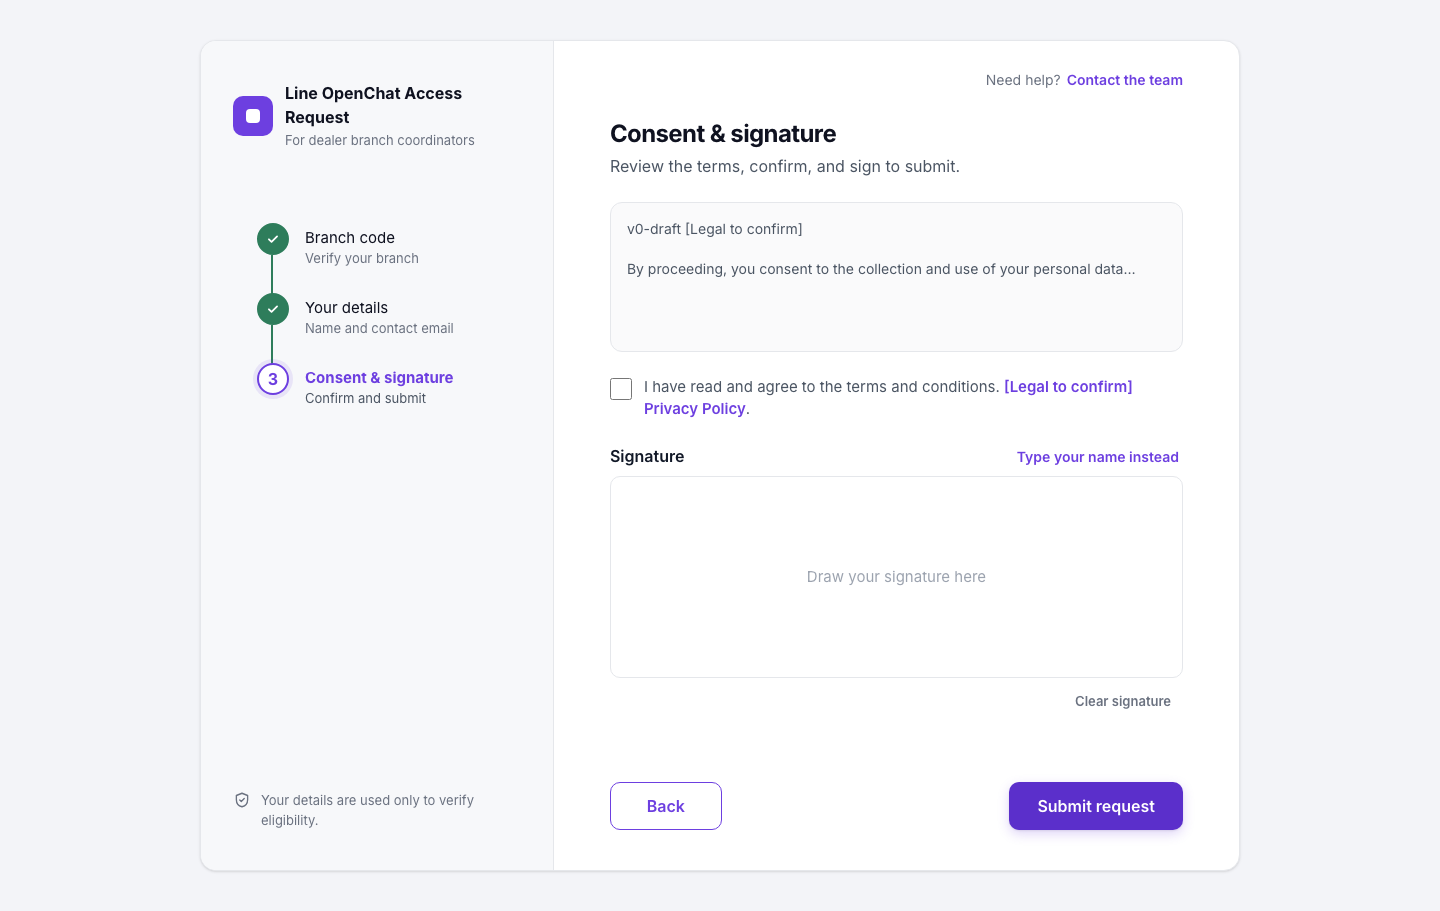
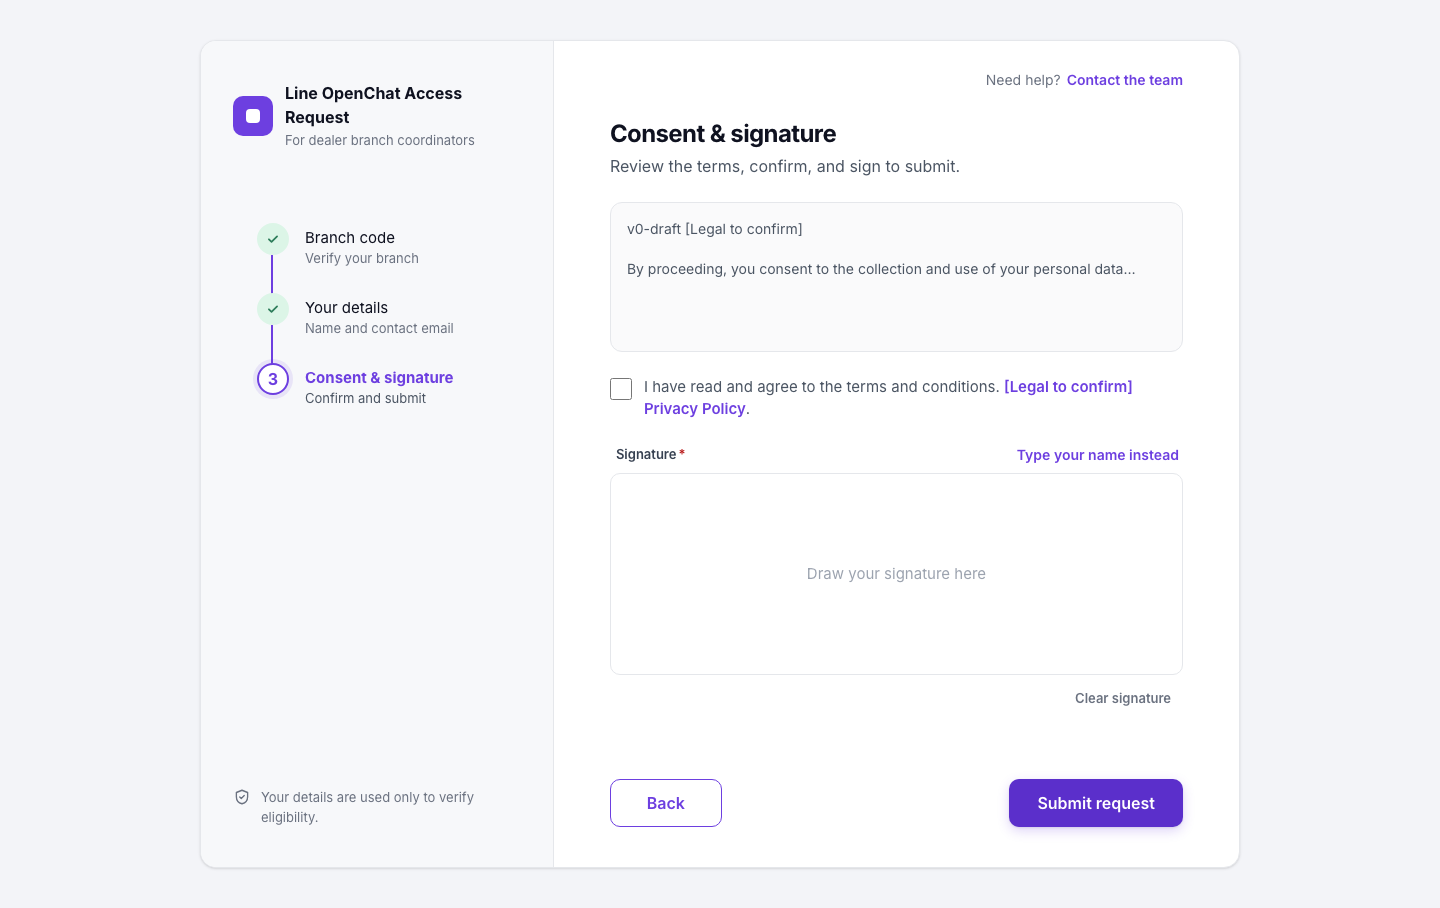
feat: align form UI with design (stepper, step 2/4 layouts, lookup cards, required markers)

diff --git a/src/app/page.tsx b/src/app/page.tsx
@@ -109,7 +109,7 @@ export function RequestForm({ initialState = {} }: { initialState?: FormInitialS
   // Actions
   const handleStep1 = form1.handleSubmit(async (data) => {
     if (data.honeypot) {
-      setReqId("REQ-0001");
+      setReqId("#REQ-0001");
       setStep(4);
       return;
     }
@@ -158,7 +158,7 @@ export function RequestForm({ initialState = {} }: { initialState?: FormInitialS
   });
 
   const handleStep3 = form3.handleSubmit(() => {
-    setReqId("REQ-0042");
+    setReqId("#REQ-0042");
     setStep(4);
   });
 
@@ -207,6 +207,16 @@ export function RequestForm({ initialState = {} }: { initialState?: FormInitialS
                   <p className="m-0 text-[16px] leading-[24px] text-[#6B7280]">Used to verify your eligibility to join the Line OpenChat group.</p>
                 </div>
 
+                {networkError && (
+                  <div role="alert" className="flex gap-3 items-start flex-wrap p-[14px_16px] rounded-xl bg-[#FEE2E2]">
+                    <svg aria-hidden="true" width="20" height="20" viewBox="0 0 24 24" fill="none" stroke="#B91C1C" strokeWidth="2" strokeLinecap="round" strokeLinejoin="round" className="flex-none mt-[2px]"><path d="M2 8.5a15 15 0 0 1 20 0M5.5 12a10 10 0 0 1 13 0M9 15.5a5 5 0 0 1 6 0M12 19h.01"></path><path d="M3 3l18 18"></path></svg>
+                    <div className="flex-1 min-w-[180px] flex flex-col gap-[2px] text-[15px] leading-[22px]">
+                      <span className="font-bold text-[#0F1220]">Connection problem</span>
+                      <span className="text-[#1F2937]">{networkError}</span>
+                    </div>
+                  </div>
+                )}
+
                 <div className="relative flex gap-3 p-4 rounded-xl bg-[#EDE9FE]">
                   <svg aria-hidden="true" width="20" height="20" viewBox="0 0 24 24" fill="none" stroke="#6D3FE0" strokeWidth="1.8" strokeLinecap="round" strokeLinejoin="round" className="flex-none mt-[2px]">
                     <circle cx="12" cy="12" r="9.5"></circle><path d="M12 11v5.5M12 7.5h.01"></path>
@@ -221,22 +231,41 @@ export function RequestForm({ initialState = {} }: { initialState?: FormInitialS
                 
                 <FloatField 
                   label="Branch code" 
+                  required={true}
                   placeholder="e.g. 1234" 
                   icon="search"
                   mono
                   locked={lookupState === "found"}
+                  success={lookupState === "found"}
                   error={form1.formState.errors.branchCode?.message}
                   {...form1.register("branchCode")}
                 />
                 
-                <div aria-live="polite">
-                  {lookupState === "loading" && <div className="text-[#4B5563]">Verifying…</div>}
-                  {lookupState === "notfound" && <div className="text-[#B91C1C]">Error: We couldn&apos;t find a branch with that code.</div>}
-                  {networkError && <div className="text-[#B91C1C]" role="alert">{networkError}</div>}
+                <div aria-live="polite" aria-atomic="true" className="flex flex-col">
+                  {lookupState === "notfound" && (
+                    <div className="relative flex gap-3 p-[14px_16px] rounded-xl bg-[#FEE2E2]">
+                      <svg aria-hidden="true" width="20" height="20" viewBox="0 0 24 24" fill="none" stroke="#B91C1C" strokeWidth="2" strokeLinecap="round" strokeLinejoin="round" className="flex-none mt-[2px]"><circle cx="12" cy="12" r="9.5"></circle><path d="M12 7.5v5.5M12 16.5h.01"></path></svg>
+                      <div className="flex flex-col gap-[2px] min-w-0 text-[15px] leading-[22px] text-[#111827]">
+                        <div className="font-bold">Branch not found</div>
+                        <div>Sure the code is right? <a href="#" className="text-[#6D3FE0] font-semibold no-underline">Contact the team</a> to add your branch.</div>
+                      </div>
+                    </div>
+                  )}
                   {lookupState === "found" && branchData?.status === "found" && (
-                    <div className="bg-[#FAFAFB] border border-[#E5E7EB] p-4 rounded-[12px] flex flex-col gap-1">
-                      <span className="text-[13px] text-[#4B5563]">Branch found</span>
-                      <span className="text-[15px] font-semibold text-[#0F1220]">{branchData.dealerName} / {branchData.branchName}</span>
+                    <div role="status" className="relative flex gap-3 p-[14px_16px] rounded-xl bg-[#DCF5E7]">
+                      <svg aria-hidden="true" width="20" height="20" viewBox="0 0 24 24" fill="none" stroke="#2E7D5B" strokeWidth="2" strokeLinecap="round" strokeLinejoin="round" className="flex-none mt-[2px]"><circle cx="12" cy="12" r="9.5"></circle><path d="m8 12.5 2.8 2.8L16 9.5"></path></svg>
+                      <div className="flex flex-col gap-1 min-w-0">
+                        <div className="text-[14px] font-bold text-[#1F5C42]">Branch found</div>
+                        <div className="flex flex-wrap items-center gap-2 text-[16px] leading-[24px] font-semibold text-[#0F1220]">
+                          <span>{branchData.dealerName}</span>
+                          <span aria-hidden="true" className="text-[#6B7280] font-normal">/</span>
+                          <span>{branchData.branchName}</span>
+                        </div>
+                        <div className="flex items-center gap-[6px] text-[13px] leading-[18px] text-[#1F5C42]">
+                          <svg aria-hidden="true" width="13" height="13" viewBox="0 0 24 24" fill="none" stroke="currentColor" strokeWidth="2" strokeLinecap="round" strokeLinejoin="round"><rect x="4" y="11" width="16" height="10" rx="2"></rect><path d="M8 11V7a4 4 0 0 1 8 0v4"></path></svg>
+                          <span>Names are partly hidden for privacy. Confirm this is your branch.</span>
+                        </div>
+                      </div>
                     </div>
                   )}
                 </div>
@@ -294,12 +323,13 @@ export function RequestForm({ initialState = {} }: { initialState?: FormInitialS
                 <div className="flex flex-col gap-[20px]">
                   <h2 className="m-0 text-[14px] font-semibold text-[#4B5563]">Requester</h2>
                   <div className="grid grid-cols-1 md:grid-cols-2 gap-[20px_16px]">
-                    <FloatField label="First name" icon="user" error={form2.formState.errors.firstName?.message} {...form2.register("firstName")} />
-                    <FloatField label="Last name" error={form2.formState.errors.lastName?.message} {...form2.register("lastName")} />
+                    <FloatField label="First name" required={true} icon="user" error={form2.formState.errors.firstName?.message} {...form2.register("firstName")} />
+                    <FloatField label="Last name" required={true} error={form2.formState.errors.lastName?.message} {...form2.register("lastName")} />
                   </div>
 
                   <FloatField 
                     label="Email address" 
+                    required={true}
                     icon="mail"
                     error={form2.formState.errors.email?.message}
                     helper="We'll send the OpenChat invite link to this address. Use an email you check daily."
@@ -342,6 +372,7 @@ export function RequestForm({ initialState = {} }: { initialState?: FormInitialS
                         <div className="flex-1">
                           <FloatField 
                             label="Verification code" 
+                            required={true}
                             mono 
                             error={otpError}
                             value={otpInput}
@@ -362,7 +393,9 @@ export function RequestForm({ initialState = {} }: { initialState?: FormInitialS
 
                 <div className="mt-[40px] flex items-center justify-between gap-[16px]">
                   <Button type="button" variant="secondary" onClick={() => setStep(1)} className="min-w-[112px]">Back</Button>
-                  <Button type="submit" disabled={!otpState?.isVerified} className="min-w-[140px]">Continue</Button>
+                  <Button type="submit" disabled={!otpState?.isVerified} className="min-w-[140px]">
+                    {otpState?.isVerified ? "Continue" : "Next"}
+                  </Button>
                 </div>
               </form>
             )}
@@ -392,7 +425,7 @@ export function RequestForm({ initialState = {} }: { initialState?: FormInitialS
 
                 <div className="space-y-2">
                   <div className="flex justify-between items-center">
-                    <span className="font-semibold">Signature</span>
+                    <span className="font-semibold text-[#374151] text-[13px] ml-[6px]">Signature<span aria-hidden="true" className="text-[#B91C1C] ml-[2px]">*</span></span>
                     <button type="button" className="text-[14px] font-semibold text-[#6D3FE0] hover:underline focus:outline-none focus:ring-2 focus:ring-[rgba(109,63,224,.3)] rounded px-1" onClick={() => {
                       const newMode = toggleSignatureMode(sigType);
                       setSigType(newMode);
@@ -406,7 +439,7 @@ export function RequestForm({ initialState = {} }: { initialState?: FormInitialS
                   {sigType === "drawn" ? (
                     <SignaturePad onChange={(data) => form3.setValue("signature.value", data || "")} />
                   ) : (
-                    <FloatField label="Signature (typed)" icon="pen" {...form3.register("signature.value")} />
+                    <FloatField label="Signature (typed)" required={true} icon="pen" {...form3.register("signature.value")} />
                   )}
                   {form3.formState.errors.signature?.value && <div className="text-[#B91C1C] text-sm">{form3.formState.errors.signature.value.message}</div>}
                 </div>

diff --git a/src/components/ui/FloatField.tsx b/src/components/ui/FloatField.tsx
@@ -5,7 +5,7 @@ export interface FloatFieldProps extends React.InputHTMLAttributes<HTMLInputElem
   helper?: string;
   error?: string;
   warning?: string;
-  success?: string;
+  success?: string | boolean;
   locked?: boolean;
   loading?: boolean;
   forceFocus?: boolean;
@@ -75,8 +75,9 @@ export const FloatField = React.forwardRef<HTMLInputElement, FloatFieldProps>(
     const selColor = hasValue ? "#111827" : "#6B7280";
     const monoClass = mono ? "font-['JetBrains_Mono',ui-monospace,monospace] tracking-[0.04em]" : "font-sans";
     
-    const helperText = isError ? error : loading ? helper : isWarning ? warning : isSuccess ? success : (helper ?? (isLocked ? 'Auto-filled from your branch code' : ''));
-    const hasHelper = !!helperText;
+    const successMsg = typeof success === "string" ? success : helper;
+    const helperText = isError ? error : loading ? helper : isWarning ? warning : isSuccess ? successMsg : (helper ?? (isLocked ? 'Auto-filled from your branch code' : ''));
+    const hasHelper = !!helperText && typeof helperText === "string";
     const hc = isError ? "#B91C1C" : isWarning ? "#B45309" : isSuccess ? "#2E7D5B" : "#6B7280";
 
     const handleFocusInput = () => {
@@ -179,7 +180,7 @@ export const FloatField = React.forwardRef<HTMLInputElement, FloatFieldProps>(
 
           {loading && (
             <span style={{ display: "flex", flex: "none", marginTop: "-8px" }}>
-              <span aria-label="Loading" className="animate-spin" style={{ width: 16, height: 16, borderRadius: 999, border: "2px solid #DDD6FE", borderTopColor: "#6D3FE0", display: "inline-block", boxSizing: "border-box" }} />
+              <span role="status" aria-label="Loading" className="animate-spin" style={{ width: 16, height: 16, borderRadius: 999, border: "2px solid #DDD6FE", borderTopColor: "#6D3FE0", display: "inline-block", boxSizing: "border-box" }} />
             </span>
           )}
           {isLocked && (

diff --git a/src/components/ui/Stepper.tsx b/src/components/ui/Stepper.tsx
@@ -48,7 +48,7 @@ export function Stepper({ currentStep }: StepperProps) {
           let descColor = "text-[#6B7280]";
 
           if (isCompleted) {
-            circleColor = "bg-[#2E7D5B] border-[#2E7D5B] text-white";
+            circleColor = "bg-[#DCF5E7] border-[#DCF5E7] text-[#2E7D5B]";
             textColor = "text-[#0F1220]";
           } else if (isCurrent) {
             circleColor = "bg-white border-[#6D3FE0] text-[#6D3FE0] ring-4 ring-[rgba(109,63,224,.1)]";
@@ -60,7 +60,7 @@ export function Stepper({ currentStep }: StepperProps) {
             <div key={step.num} className="flex gap-4 items-start relative">
               {/* Connector Line */}
               {step.num !== 3 && (
-                <div className={`absolute top-8 left-3.5 w-0.5 h-10 ${isCompleted ? "bg-[#2E7D5B]" : "bg-[#E5E7EB]"}`} />
+                <div className={`absolute top-8 left-3.5 w-0.5 h-10 ${isCompleted ? "bg-[#6D3FE0]" : "bg-[#E5E7EB]"}`} />
               )}
               
               <div className={`w-8 h-8 rounded-full border-2 flex items-center justify-center font-bold z-10 ${circleColor}`}>

diff --git a/e2e/phase2.spec.ts b/e2e/phase2.spec.ts
@@ -66,7 +66,7 @@ test.describe('Phase 2 Form', () => {
   test('not found cases (9999 and 0000)', async ({ page }) => {
     await page.getByLabel(/Branch code/).fill('9999');
     await page.getByRole('button', { name: 'Verify branch code' }).click();
-    await expect(page.getByText(/We couldn't find a branch with that code/i)).toBeVisible();
+    await expect(page.getByText(/Branch not found/i)).toBeVisible();
   });
 
   test('wrong OTP then correct OTP', async ({ page }) => {

diff --git a/src/app/dev/scenarios/page.tsx b/src/app/dev/scenarios/page.tsx
@@ -58,7 +58,7 @@ export default async function ScenariosPage({ searchParams }: { searchParams: Pr
       step: 2,
       lookupState: "found",
       branchData: defaultBranchData.status === "found" ? defaultBranchData : null,
-      form2: { firstName: "Jane", lastName: "Doe", email: "jane.doe@gmail.com" }
+      form2: { firstName: "Jane", lastName: "Doe", email: "jane.doe@example.com" }
     };
   } else if (s === "dupe") {
     initialState = {
